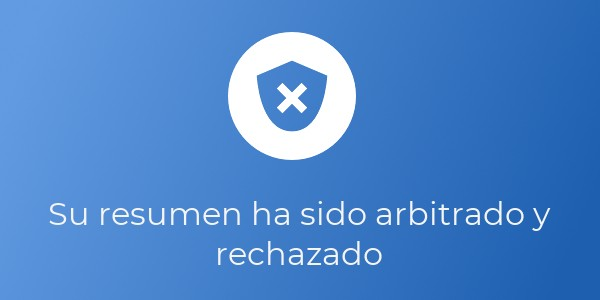
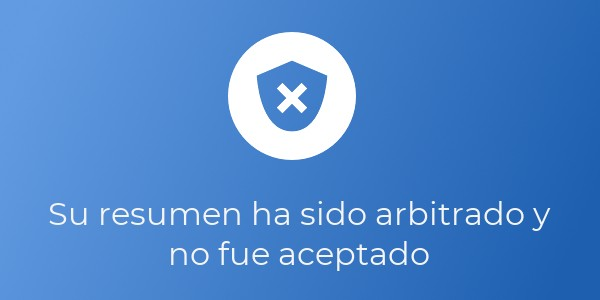
Add rejected resumen email notification templates
- Adding necessary html, txt and subject files to template directory
to send rejected resumen notification emails.
- Correcting wording in previous rejection banner.
- testing this new rejected resumen email template with the email_test view.

Changed region(s): [[0.27, 0.78, 0.72, 0.9]]

diff --git a/teg_asovac_src/templates/resumen_rejected_email.html b/teg_asovac_src/templates/resumen_rejected_email.html
@@ -1,0 +1,39 @@
+{% extends "email_base_template.html" %}
+{% load static %}
+
+{% block title %}
+Sistema ASOVAC: Rechazo de Resumen
+{% endblock %}
+
+{% block banner %}
+<img src="{% static 'img/email_banner_resumen_reject.jpg' %}" alt="Su resumen ha sido arbitrado y rechazado" style="display: block;border:0;" height="100%" width="600"/>
+{% endblock %}
+
+{% block content %}
+<tr>
+    <td style="padding: 10px 0 10px 0; font-family: Avenir, sans-serif; font-size: 16px;">
+        <!-- Email text goes here-->
+        <p style="text-align: justify;">
+            Mediante el presente mensaje se le notifica a usted que el resumen de título:
+        </p>
+        <p style="text-align: center;">
+            <strong>{{ resumen_title }}</strong>
+        </p>
+        <p style="text-align: justify;">
+            De autores:
+        </p>
+        <p style="text-align: center;">
+            <strong>{% for author in authors %}
+                {% if forloop.first %}
+                    {{ author }}
+                {% else %}
+                    , {{ author }}
+                {% endif %}
+            {% endfor %}</strong>
+        </p>
+        <p style="text-align: justify;">
+            Ha sido debidamente arbitrado y los miembros del jurado han manifestado que presenta algunas deficiencias, por lo que el resumen <strong>no fue aceptado</strong>. Se incluye en este correo adjuntada una carta formal que establece las observaciones y detalles pertinentes.
+        </p>
+    </td>
+</tr>
+{% endblock %}

diff --git a/teg_asovac_src/templates/resumen_rejected_email_txt.html b/teg_asovac_src/templates/resumen_rejected_email_txt.html
@@ -1,0 +1,20 @@
+Mediante el presente mensaje se le notifica a usted que el resumen de título:
+
+{{ resumen_title }}
+
+De autores:
+
+{% for author in authors %}
+    {% if forloop.first %}
+        {{ author }}
+    {% else %}
+        , {{ author }}
+    {% endif %}
+{% endfor %}
+
+Ha sido debidamente arbitrado y los miembros del jurado han manifestado que presenta algunas deficiencias, por lo que el resumen NO fue aceptado. Se incluye en este correo adjuntada una carta formal que establece las observaciones y detalles pertinentes.
+
+Atentamente
+Sistema ASOVAC
+
+Este es un correo electrónico autogenerado por el sistema ASOVAC, por favor no responder a estos mensajes.

diff --git a/teg_asovac_src/main_app/views.py b/teg_asovac_src/main_app/views.py
@@ -44,7 +44,7 @@ def email_test(request):
         'resumen_title': 'Escalamiento a escala industrial de una crema azufrada optimizada mediante un diseño experimental',
         'authors': ['Karla Calo', 'Luis Henríquez']
     }
-    return render(request, 'resumen_accepted_email.html', context)
+    return render(request, 'resumen_rejected_email.html', context)
 
 def listado_trabajos(request):
     context = {
